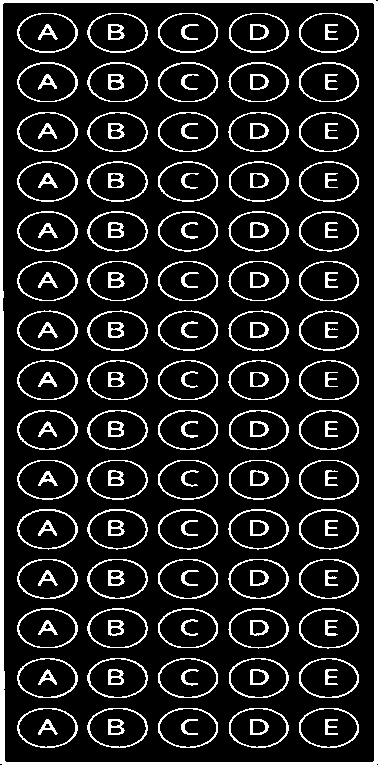
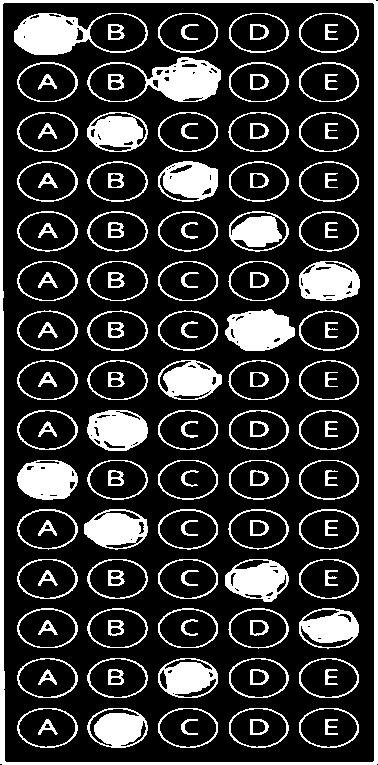
update básicos

diff --git a/ORM_Main.py b/ORM_Main.py
@@ -1,15 +1,22 @@
 import cv2
 import numpy as np
 import os
-import utils  # Certifique-se de que utils.py está implementado corretamente
+import utils
 from pdf2image import convert_from_path
+import json
 
+# Criar pastas de saída
 output_jpeg = "jpeg"
-os.makedirs(output_jpeg, exist_ok=True)
+os.makedirs("jpeg", exist_ok=True)
 
-#Converter PDF para JPEG
+output_json = "json"
+os.makedirs("json", exist_ok=True)
+
+output_cutout = "recortes"
+os.makedirs(output_cutout, exist_ok=True)
+
 # Converter PDF para JPEG
-pdf_path = "7.pdf"  # Substitua pelo nome do seu arquivo PDF
+pdf_path = "9.pdf"  # Substitua pelo nome do seu arquivo PDF
 pages = convert_from_path(pdf_path, dpi=300)  # Converte todas as páginas em imagens
 
 # Salvar a primeira página como JPEG
@@ -18,7 +25,6 @@ pages[0].save(jpeg_path, "JPEG")
 
 # Atualiza a variável path com o caminho da imagem JPEG gerada
 path = jpeg_path
-print(path)
 
 # Configurações
 widthImg = 3000
@@ -27,8 +33,6 @@ questions = 60
 choices = 5
 columns = 4
 questions_per_col = questions // columns  # 15 por coluna
-output_folder = "recortes"
-os.makedirs(output_folder, exist_ok=True)
 
 # Carregar e redimensionar imagem
 img = cv2.imread(path)
@@ -59,7 +63,7 @@ if len(rectCon) >= 4:
         imgColuna = img[y:y+h, x:x+w]
         imgWarpGray = cv2.cvtColor(imgColuna, cv2.COLOR_BGR2GRAY)
         imgThresh = cv2.threshold(imgWarpGray, 160, 255, cv2.THRESH_BINARY_INV)[1]
-        save_path = os.path.join(output_folder, f"coluna_{idx+1}.png")
+        save_path = os.path.join(output_cutout, f"coluna_{idx+1}.png")
         cv2.imwrite(save_path, imgThresh)
         colunas_paths.append(save_path)
         print(f"Salvo: {save_path}")
@@ -90,10 +94,28 @@ for idx_coluna, path_coluna in enumerate(colunas_paths):
         numero_questao = idx_coluna * questions_per_col + i + 1
         respostas.append((numero_questao, resposta))
 
-# Mostrar as respostas identificadas
-print("\nRespostas Identificadas:")
-for numero, resposta in respostas:
-    print(f"Questão {numero:02d}: {resposta if resposta else 'Sem marcação'}")
+# guardar respostas identificadas em um arquivo json na pasta json
+caminho = {}
+resposta_ident, resposta_null = 0, 0
+for num, resposta in respostas:
+    if resposta:
+        resposta_ident += 1
+    else:
+        resposta_null += 1
+    caminho[num] = resposta
+
+# adiciona contagens ao dicionário
+caminho["_resumo"] = {
+    "respostas_identificadas": resposta_ident,
+    "respostas_nulas": resposta_null
+}
+
+with open(os.path.join(output_json, "respostas.json"), "w") as json_file:
+    json.dump(caminho, json_file, indent=4)
+
+#print("\nRespostas Identificadas:")
+#for numero, resposta in respostas:
+#    print(f"Questão {numero:02d}: {resposta if resposta else 'Sem marcação'}")
 
 #usado apenas para visualização (opcional)
 # imgBlank = np.zeros_like(img)
